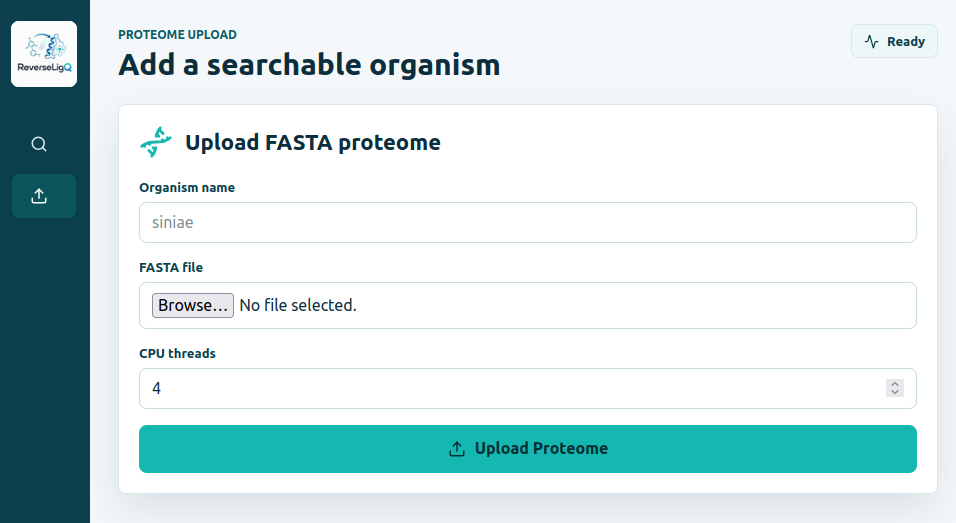
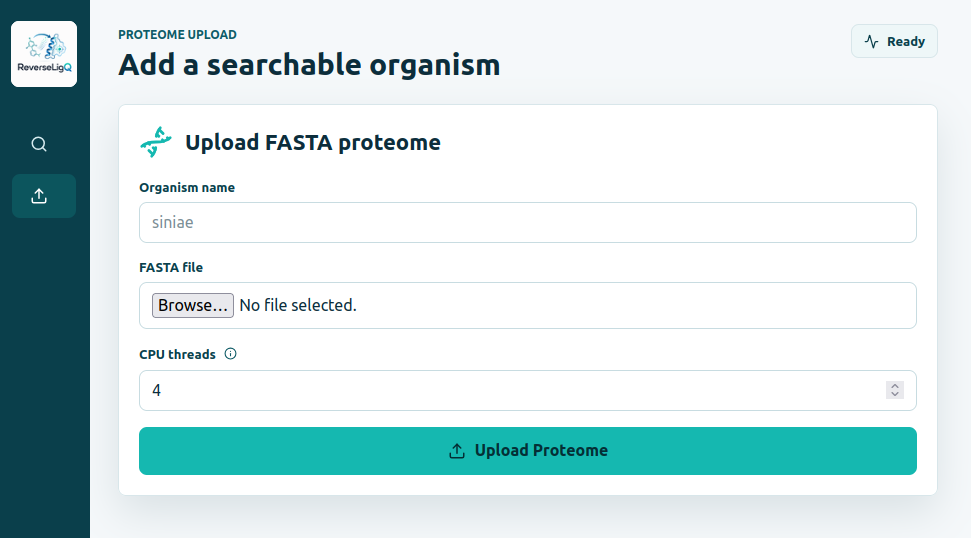
added informative tooltips

diff --git a/web/frontend/src/styles.css b/web/frontend/src/styles.css
@@ -150,11 +150,41 @@ button {
 .main {
   min-width: 0;
   padding: 28px;
+  display: flex;
+  flex-direction: column;
+  gap: 22px;
 }
 
 .workspace {
   display: grid;
   gap: 22px;
+}
+
+.app-footer {
+  display: flex;
+  flex-wrap: wrap;
+  gap: 8px 14px;
+  align-items: center;
+  justify-content: center;
+  margin-top: auto;
+  padding: 16px 0 2px;
+  border-top: 1px solid rgba(216, 230, 234, 0.9);
+  color: var(--muted);
+  font-size: 12px;
+  line-height: 1.4;
+  text-align: center;
+}
+
+.app-footer a {
+  color: var(--primary);
+  font-weight: 750;
+  text-decoration: none;
+}
+
+.app-footer a:hover {
+  color: var(--primary-dark);
+  text-decoration: underline;
+  text-underline-offset: 3px;
 }
 
 .page-header,
@@ -223,6 +253,13 @@ h2 {
   color: var(--primary-dark);
   font-size: 13px;
   font-weight: 720;
+}
+
+.field-label {
+  display: inline-flex;
+  align-items: center;
+  gap: 6px;
+  width: fit-content;
 }
 
 input,
@@ -599,20 +636,29 @@ th {
 
 .column-header.has-tooltip {
   cursor: help;
+}
+
+.help-tooltip {
+  position: relative;
+  display: inline-grid;
+  place-items: center;
+  width: 18px;
+  height: 18px;
+  border-radius: 50%;
+  cursor: help;
   outline: none;
 }
 
-.column-header.has-tooltip:focus-visible {
-  border-radius: 4px;
+.help-tooltip:focus-visible {
   box-shadow: 0 0 0 3px rgba(21, 184, 176, 0.18);
 }
 
-.column-help-icon {
+.help-tooltip-icon {
   flex: 0 0 auto;
   color: var(--primary);
 }
 
-.column-tooltip {
+.help-tooltip-panel {
   position: absolute;
   left: 50%;
   top: calc(100% + 8px);
@@ -635,13 +681,15 @@ th {
   visibility: hidden;
 }
 
-.column-header.has-tooltip:hover .column-help-icon,
-.column-header.has-tooltip:focus-visible .column-help-icon {
+.help-tooltip:hover .help-tooltip-icon,
+.help-tooltip:focus-visible .help-tooltip-icon,
+.column-header.has-tooltip:hover .help-tooltip-icon {
   color: var(--primary-dark);
 }
 
-.column-header.has-tooltip:hover .column-tooltip,
-.column-header.has-tooltip:focus-visible .column-tooltip {
+.help-tooltip:hover .help-tooltip-panel,
+.help-tooltip:focus-visible .help-tooltip-panel,
+.column-header.has-tooltip:hover .help-tooltip-panel {
   opacity: 1;
   visibility: visible;
 }

diff --git a/web/frontend/src/main.jsx b/web/frontend/src/main.jsx
@@ -37,6 +37,13 @@ const PREDICTED_TARGET_TOOLTIPS = {
   reference_ligand_score: "Similarity score between your query ligand and the reference ligand under the selected search method. Higher values indicate closer chemical similarity.",
 };
 
+const FORM_TOOLTIPS = {
+  searchMethod: "Choose how ReverseLigQ compares your query ligand against known ligands. ECFP4 + Tanimoto uses molecular fingerprints and is fast; ChemBERTa + Cosine uses learned SMILES embeddings and can capture broader chemical similarity.",
+  similarityThreshold: "Minimum similarity score required for a reference ligand to be considered. Higher values make the search stricter; lower values may return more candidates but can include weaker matches.",
+  maxDomainRanks: "Limits how many ranked Pfam domain candidates are kept when building the predicted target table. Lower values keep the strongest domain evidence; use Include all domain ranks for a broader, larger result table.",
+  cpuThreads: "Number of CPU threads HMMER uses while scanning the uploaded proteome against Pfam. More threads can speed up large proteomes, but should not exceed the cores available on the machine.",
+};
+
 function cx(...items) {
   return items.filter(Boolean).join(" ");
 }
@@ -123,8 +130,25 @@ function App() {
         ) : (
           <ProteomeUploadScreen refreshOrganisms={refreshOrganisms} />
         )}
+        <AppFooter />
       </main>
     </div>
+  );
+}
+
+function AppFooter() {
+  return (
+    <footer className="app-footer">
+      <a href="https://github.com/gschottlender/ReverseLigQ" target="_blank" rel="noreferrer">
+        github.com/gschottlender/ReverseLigQ
+      </a>
+      <span>
+        Schottlender et al. (2022), Frontiers in Drug Discovery ·{" "}
+        <a href="https://doi.org/10.3389/fddsv.2022.969983" target="_blank" rel="noreferrer">
+          doi:10.3389/fddsv.2022.969983
+        </a>
+      </span>
+    </footer>
   );
 }
 
@@ -301,7 +325,7 @@ function SearchScreen({ organisms }) {
             </Field>
           )}
 
-          <Field label="Similarity method">
+          <Field label="Similarity method" tooltip={FORM_TOOLTIPS.searchMethod}>
             <div className="segmented">
               {Object.entries(SEARCH_TYPES).map(([key, item]) => (
                 <button type="button" key={key} className={cx(searchType === key && "selected")} onClick={() => setSearchType(key)}>
@@ -312,10 +336,10 @@ function SearchScreen({ organisms }) {
           </Field>
 
           <div className="control-grid">
-            <Field label="Similarity threshold">
+            <Field label="Similarity threshold" tooltip={FORM_TOOLTIPS.similarityThreshold}>
               <input type="number" min="0" max="1" step="0.01" value={minScore} onChange={(event) => setMinScore(event.target.value)} />
             </Field>
-            <Field label="Maximum domain ranks">
+            <Field label="Maximum domain ranks" tooltip={FORM_TOOLTIPS.maxDomainRanks}>
               <input type="number" min="1" step="1" value={maxDomainRanks} disabled={allDomains} onChange={(event) => setMaxDomainRanks(event.target.value)} />
             </Field>
           </div>
@@ -414,7 +438,7 @@ function ProteomeUploadScreen({ refreshOrganisms }) {
         <Field label="FASTA file">
           <input ref={fileRef} type="file" accept=".fasta,.fa,.faa,.txt" onChange={(event) => setFasta(event.target.files?.[0] || null)} />
         </Field>
-        <Field label="CPU threads">
+        <Field label="CPU threads" tooltip={FORM_TOOLTIPS.cpuThreads}>
           <input type="number" min="1" step="1" value={cpu} onChange={(event) => setCpu(event.target.value)} />
         </Field>
         {error && <Alert text={error} tone="error" />}
@@ -429,10 +453,13 @@ function ProteomeUploadScreen({ refreshOrganisms }) {
   );
 }
 
-function Field({ label, children }) {
+function Field({ label, tooltip, children }) {
   return (
     <label className="field">
-      <span>{label}</span>
+      <span className="field-label">
+        <span>{label}</span>
+        {tooltip && <HelpTooltip label={label} tooltip={tooltip} />}
+      </span>
       {children}
     </label>
   );
@@ -650,10 +677,18 @@ function ColumnHeader({ column, tooltip }) {
   if (!tooltip) return label;
 
   return (
-    <span className="column-header has-tooltip" tabIndex="0" aria-label={`${label}: ${tooltip}`}>
+    <span className="column-header has-tooltip">
       <span>{label}</span>
-      <Info className="column-help-icon" size={13} aria-hidden="true" />
-      <span className="column-tooltip" role="tooltip">{tooltip}</span>
+      <HelpTooltip label={label} tooltip={tooltip} />
+    </span>
+  );
+}
+
+function HelpTooltip({ label, tooltip }) {
+  return (
+    <span className="help-tooltip" tabIndex="0" aria-label={`${label}: ${tooltip}`}>
+      <Info className="help-tooltip-icon" size={13} aria-hidden="true" />
+      <span className="help-tooltip-panel" role="tooltip">{tooltip}</span>
     </span>
   );
 }